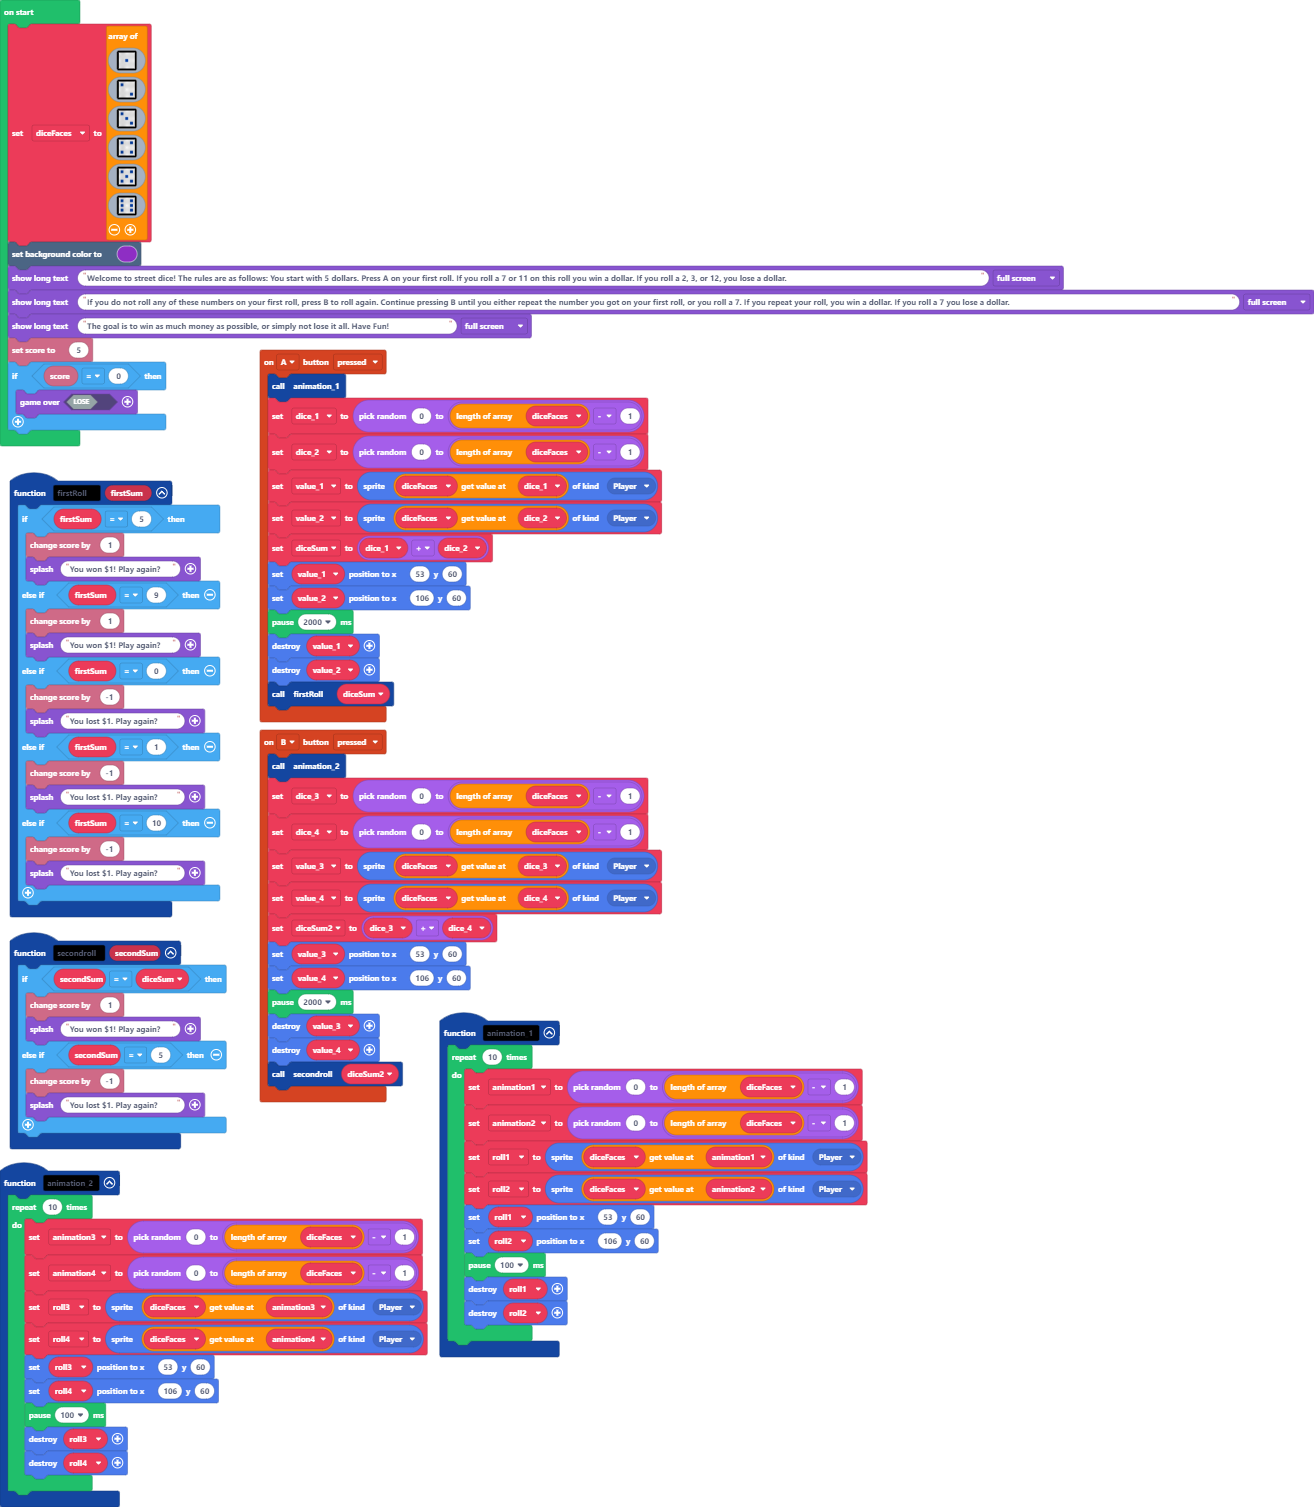
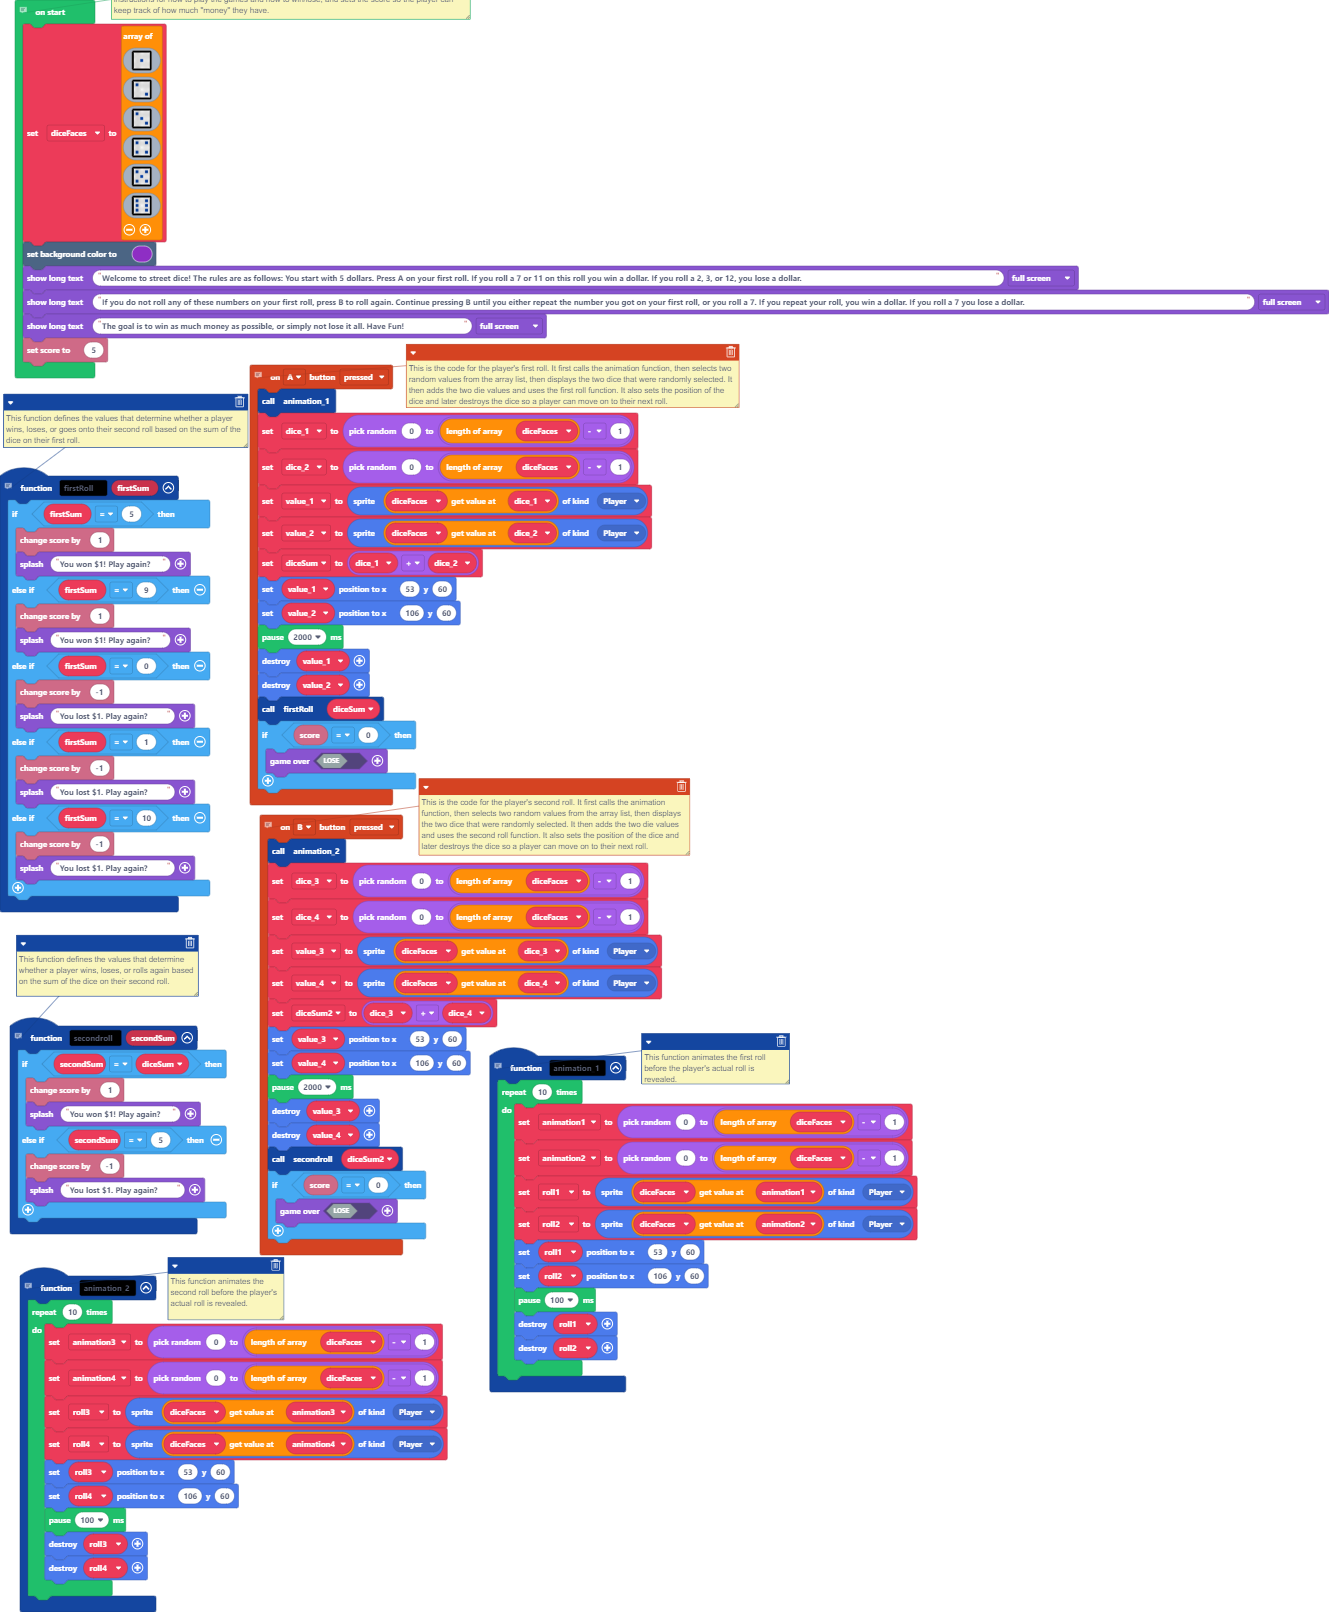
Update pxt.json, main.blocks, main.ts

Changed region(s): [[0.0, 0.0, 1.0, 1.0]]

diff --git a/main.ts b/main.ts
@@ -1,3 +1,4 @@
+// This is the code for the player's second roll. It first calls the animation function, then selects two random values from the array list, then displays the two dice that were randomly selected. It then adds the two die values and uses the second roll function. It also sets the position of the dice and later destroys the dice so a player can move on to their next roll. 
 controller.B.onEvent(ControllerButtonEvent.Pressed, function () {
     animation_2()
     dice_3 = randint(0, diceFaces.length - 1)
@@ -11,7 +12,11 @@ controller.B.onEvent(ControllerButtonEvent.Pressed, function () {
     value_3.destroy()
     value_4.destroy()
     secondroll(diceSum2)
+    if (info.score() == 0) {
+        game.over(false)
+    }
 })
+// This function defines the values that determine whether a player wins, loses, or goes onto their second roll based on the sum of the dice on their first roll.
 function firstRoll (firstSum: number) {
     if (firstSum == 5) {
         info.changeScoreBy(1)
@@ -30,6 +35,7 @@ function firstRoll (firstSum: number) {
         game.splash("You lost $1. Play again?")
     }
 }
+// This function animates the second roll before the player's actual roll is revealed.
 function animation_2 () {
     for (let index = 0; index < 10; index++) {
         animation3 = randint(0, diceFaces.length - 1)
@@ -43,6 +49,7 @@ function animation_2 () {
         roll4.destroy()
     }
 }
+// This function defines the values that determine whether a player wins, loses, or rolls again based on the sum of the dice on their second roll.
 function secondroll (secondSum: number) {
     if (secondSum == diceSum) {
         info.changeScoreBy(1)
@@ -52,6 +59,7 @@ function secondroll (secondSum: number) {
         game.splash("You lost $1. Play again?")
     }
 }
+// This is the code for the player's first roll. It first calls the animation function, then selects two random values from the array list, then displays the two dice that were randomly selected. It then adds the two die values and uses the first roll function. It also sets the position of the dice and later destroys the dice so a player can move on to their next roll. 
 controller.A.onEvent(ControllerButtonEvent.Pressed, function () {
     animation_1()
     dice_1 = randint(0, diceFaces.length - 1)
@@ -65,7 +73,11 @@ controller.A.onEvent(ControllerButtonEvent.Pressed, function () {
     value_1.destroy()
     value_2.destroy()
     firstRoll(diceSum)
+    if (info.score() == 0) {
+        game.over(false)
+    }
 })
+// This function animates the first roll before the player's actual roll is revealed.
 function animation_1 () {
     for (let index = 0; index < 10; index++) {
         animation1 = randint(0, diceFaces.length - 1)
@@ -79,6 +91,7 @@ function animation_1 () {
         roll2.destroy()
     }
 }
+// The on start of our code includes an array of images for the dices faces that we created, the instructions for how to play the games and how to win/lose, and sets the score so the player can keep track of how much "money" they have.
 let roll2: Sprite = null
 let roll1: Sprite = null
 let animation2 = 0
@@ -219,6 +232,3 @@ game.showLongText("Welcome to street dice! The rules are as follows: You start w
 game.showLongText("If you do not roll any of these numbers on your first roll, press B to roll again. Continue pressing B until you either repeat the number you got on your first roll, or you roll a 7. If you repeat your roll, you win a dollar. If you roll a 7 you lose a dollar.", DialogLayout.Full)
 game.showLongText("The goal is to win as much money as possible, or simply not lose it all. Have Fun!", DialogLayout.Full)
 info.setScore(5)
-if (info.score() == 0) {
-    game.over(false)
-}
